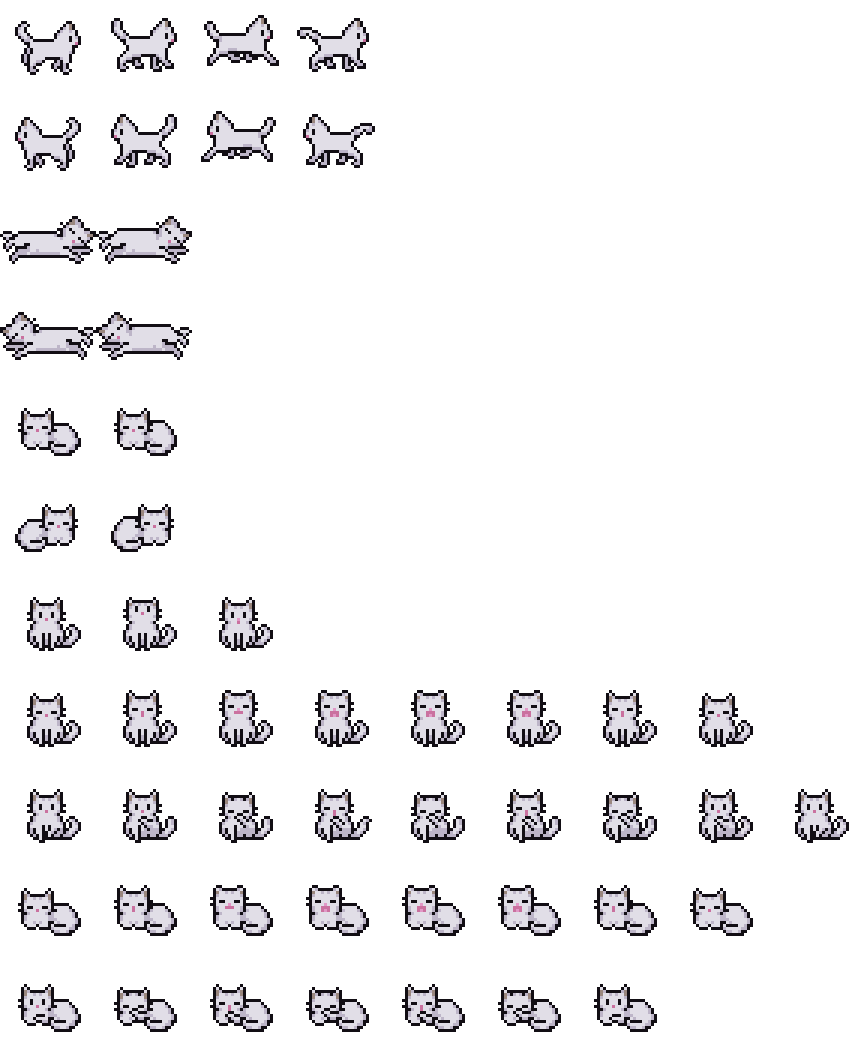
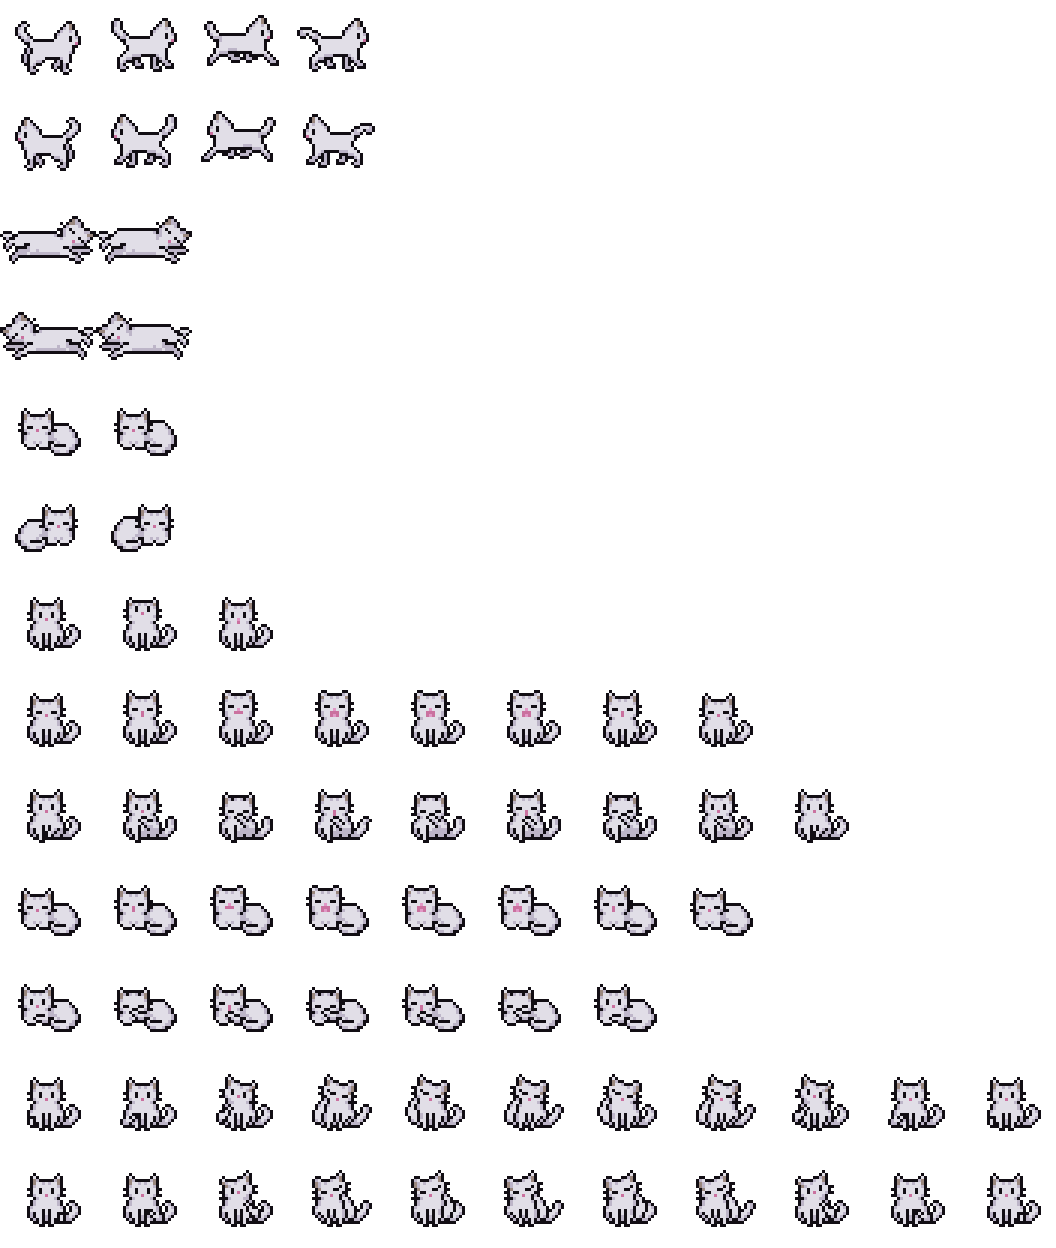
Cat active rest plays 2-3 cycles then sleeps; add scratch animation

diff --git a/src/pages/MemberProfile.jsx b/src/pages/MemberProfile.jsx
@@ -19,30 +19,33 @@ import catAtlasWhite  from '../assets/cat-atlas-white.png'
 export const CAT_ATLASES = [catAtlasOrange, catAtlasDark, catAtlasWhite]
 export const CAT_LABELS  = ['Orange', 'Dark', 'White']
 
-// Atlas: 864×1056px (9 cols × 11 rows), built at 3× source (96px per cell).
+// Atlas: 1056×1248px (11 cols × 13 rows), built at 3× source (96px per cell).
 // Displayed at SCALE=½ → 48×48 per frame.
 const SCALE   = 1 / 2
-const ATLAS_W = Math.round(864 * SCALE)   // 432
-const ATLAS_H = Math.round(1056 * SCALE)  // 528
+const ATLAS_W = Math.round(1056 * SCALE)  // 528
+const ATLAS_H = Math.round(1248 * SCALE)  // 624
 const FRAME_W = Math.round(96 * SCALE)    // 48
 const FRAME_H = Math.round(96 * SCALE)    // 48
 
 // Atlas row layout:
 // 0=walk-right  1=walk-left
-// 2=sleep4-L    3=sleep4-R   (flat lying, directional)
-// 4=sleep1-L    5=sleep1-R   (curled, directional)
-// 6=meow-sit    7=yawn-sit   8=wash-sit
+// 2=sleep4-L    3=sleep4-R   (flat, directional)  ← sleep behaviors (idx 0-1)
+// 4=sleep1-L    5=sleep1-R   (curl, directional)
+// 6=meow-sit    7=yawn-sit   8=wash-sit            ← active rest (idx 2+)
 // 9=yawn-lie    10=wash-lie
+// 11=scratch-L  12=scratch-R (directional)
 const WALK_FRAME_COUNT = 4
 const REST_BEHAVIORS = [
-  { rows: [2, 3], frames: 2, frameMs: 700, zzz: true  }, // sleep flat
-  { rows: [4, 5], frames: 2, frameMs: 700, zzz: true  }, // sleep curl
-  { rows: [6],    frames: 3, frameMs: 220, zzz: false }, // meow
-  { rows: [7],    frames: 8, frameMs: 150, zzz: false }, // yawn sitting
-  { rows: [8],    frames: 9, frameMs: 130, zzz: false }, // wash sitting
-  { rows: [9],    frames: 8, frameMs: 150, zzz: false }, // yawn lying
-  { rows: [10],   frames: 7, frameMs: 130, zzz: false }, // wash lying
+  { rows: [2, 3],   frames: 2,  frameMs: 700, zzz: true  }, // 0 sleep flat
+  { rows: [4, 5],   frames: 2,  frameMs: 700, zzz: true  }, // 1 sleep curl
+  { rows: [6],      frames: 3,  frameMs: 220, zzz: false }, // 2 meow
+  { rows: [7],      frames: 8,  frameMs: 150, zzz: false }, // 3 yawn sitting
+  { rows: [8],      frames: 9,  frameMs: 130, zzz: false }, // 4 wash sitting
+  { rows: [9],      frames: 8,  frameMs: 150, zzz: false }, // 5 yawn lying
+  { rows: [10],     frames: 7,  frameMs: 130, zzz: false }, // 6 wash lying
+  { rows: [11, 12], frames: 11, frameMs: 100, zzz: false }, // 7 scratch (directional)
 ]
+const SLEEP_COUNT = 2 // first N behaviors are sleep
 
 function CatProgressBar({ pct, atlasUrl }) {
   const [isWalking, setIsWalking]       = useState(false)
@@ -58,7 +61,8 @@ function CatProgressBar({ pct, atlasUrl }) {
       setIsWalking(true)
       clearTimeout(timerRef.current)
       timerRef.current = setTimeout(() => {
-        setBehaviorIdx(Math.floor(Math.random() * REST_BEHAVIORS.length))
+        // Pick a random active-rest behavior (not sleep)
+        setBehaviorIdx(SLEEP_COUNT + Math.floor(Math.random() * (REST_BEHAVIORS.length - SLEEP_COUNT)))
         setIsWalking(false)
       }, 750)
       prevRef.current = pct
@@ -68,10 +72,30 @@ function CatProgressBar({ pct, atlasUrl }) {
 
   useEffect(() => {
     setFrame(0)
-    const b     = REST_BEHAVIORS[behaviorIdx]
-    const count = isWalking ? WALK_FRAME_COUNT : b.frames
-    const ms    = isWalking ? 120 : b.frameMs
-    const id    = setInterval(() => setFrame(f => (f + 1) % count), ms)
+    if (isWalking) {
+      const id = setInterval(() => setFrame(f => (f + 1) % WALK_FRAME_COUNT), 120)
+      return () => clearInterval(id)
+    }
+    const b = REST_BEHAVIORS[behaviorIdx]
+    if (b.zzz) {
+      // Sleep: loop forever
+      const id = setInterval(() => setFrame(f => (f + 1) % b.frames), b.frameMs)
+      return () => clearInterval(id)
+    }
+    // Active rest: play 2–3 cycles then transition to a sleep behavior
+    const targetCycles = 2 + Math.floor(Math.random() * 2)
+    let localFrame = 0, cycles = 0
+    const id = setInterval(() => {
+      localFrame = (localFrame + 1) % b.frames
+      setFrame(localFrame)
+      if (localFrame === 0) {
+        cycles++
+        if (cycles >= targetCycles) {
+          clearInterval(id)
+          setBehaviorIdx(Math.floor(Math.random() * SLEEP_COUNT))
+        }
+      }
+    }, b.frameMs)
     return () => clearInterval(id)
   }, [isWalking, behaviorIdx])
 